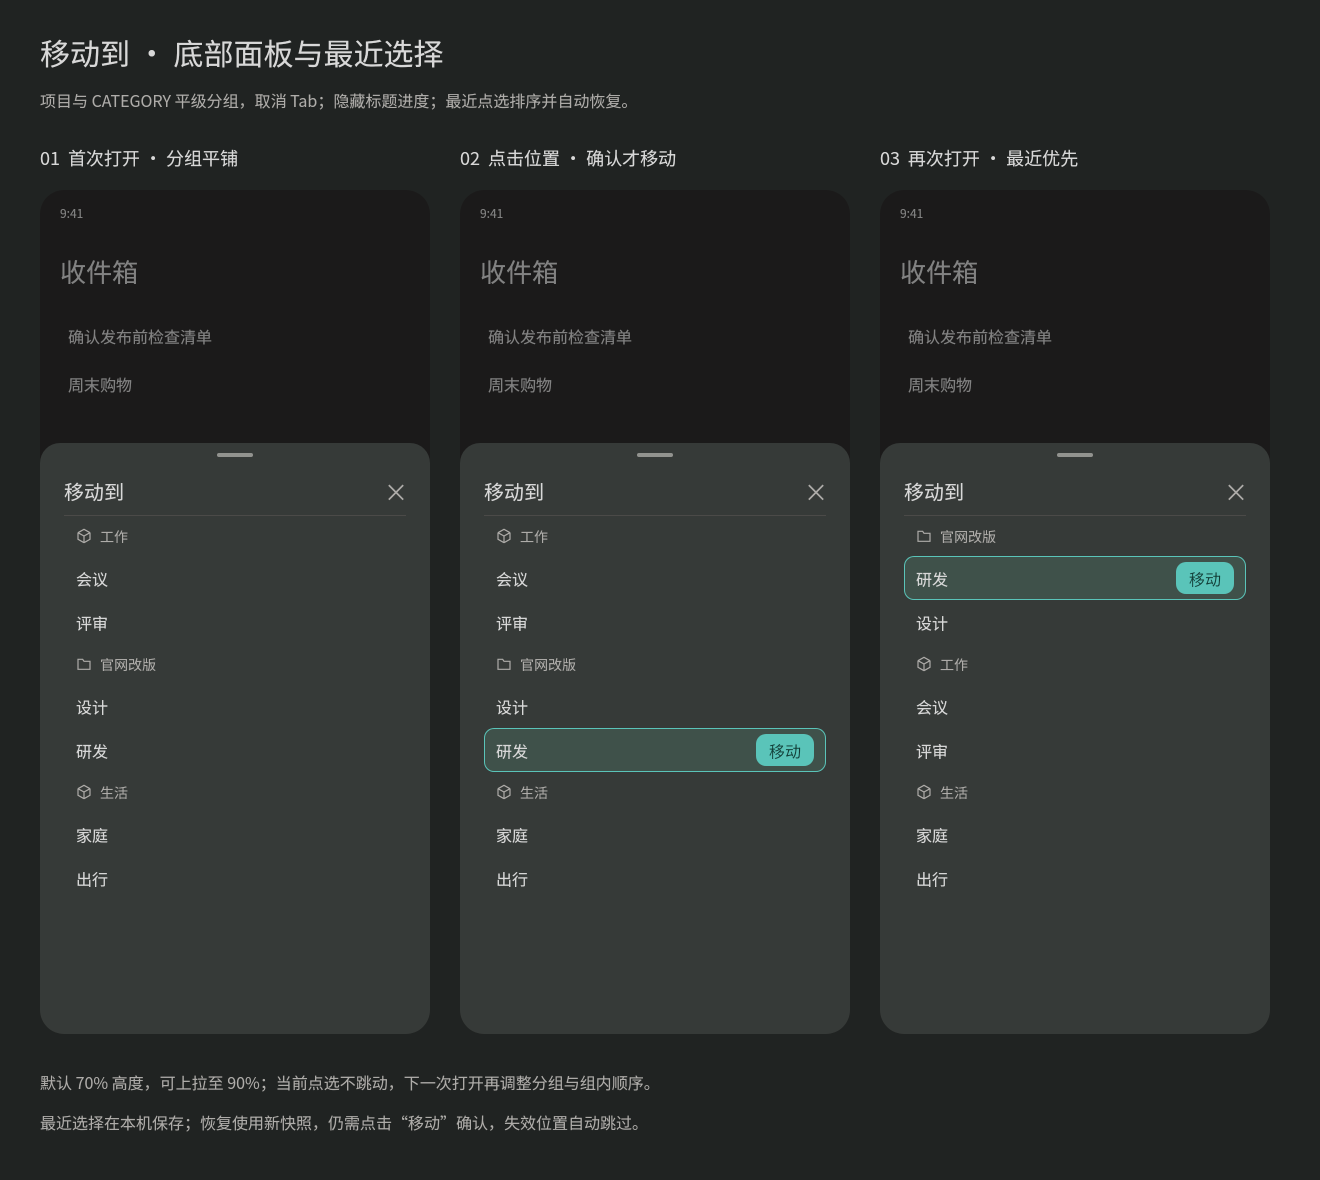
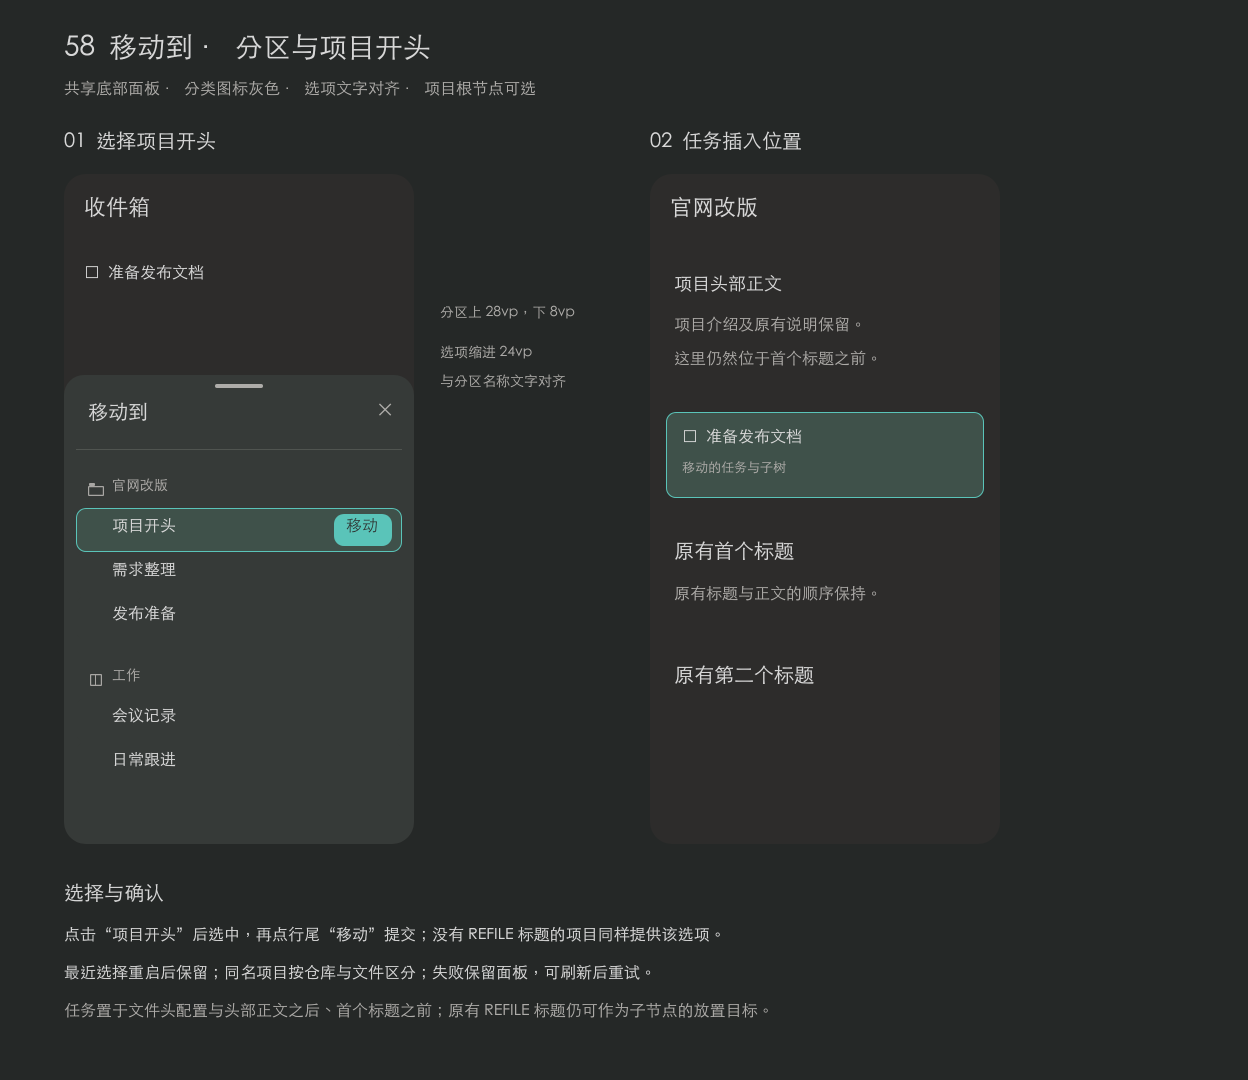
feat: 优化移动目标分区并支持移动到项目开头
统一分类与项目图标灰色，增大分区留白并对齐选项文字；由 Core 提供项目根节点目标，保留文件头正文与原有标题顺序。

同步设计画板与接口说明，修正规划日期测试的遗留字段与参数。

diff --git a/entry/src/main/cpp/types/liborg_tasks_harmony/index.d.ts b/entry/src/main/cpp/types/liborg_tasks_harmony/index.d.ts
@@ -56,7 +56,7 @@ export interface TaskFileVersion { repoId: string; file: string; version: string
 export interface TaskOperationGroup { operations: TaskOperation[]; queueRepoIds?: string[]; fileVersions?: TaskFileVersion[]; }
 export type DataChangeEvent = { type: 'repositoryChanged'; repoId: string };
 export type DataChangeMonitor = (event: DataChangeEvent) => void;
-export interface RefileTargetQuery { files?: OrgFileRef[]; excludedFiles?: OrgFileRef[]; }
+export interface RefileTargetQuery { files?: OrgFileRef[]; excludedFiles?: OrgFileRef[]; includeProjectRoots?: boolean; }
 export interface RefileTarget {
   repoId: string; path: string; fullPath: TaskPath; headingPath: string[]; position: SourcePosition;
   category: string | null; projectName: string | null; fileVersion: string; titleParts: TitlePart[];

diff --git a/core/tests/refile_targets.rs b/core/tests/refile_targets.rs
@@ -261,6 +261,7 @@ async fn target_query_scopes_files_before_categories_and_keeps_peer_repository_f
                 path: "someday.org".into(),
             },
         ],
+        ..Default::default()
     };
     let targets = w.query_refile_targets(&query).await.unwrap();
     assert_eq!(
@@ -292,4 +293,38 @@ async fn target_query_scopes_files_before_categories_and_keeps_peer_repository_f
         }).await
         .is_err()
     );
+}
+
+#[tokio::test]
+async fn project_roots_are_opt_in_scoped_and_keep_file_identity_without_refile_headings() {
+    use org_tasks_core::RefileTargetQuery;
+    let source = "#+FILETAGS: :project:\r\n#+TITLE: 项目\r\n头部正文  \r\n* 章节 :REFILE:\r\n";
+    let workspace = OrgWorkspace::new(vec![repo("r", &[
+        ("project.org", source),
+        ("empty.org", "#+FILETAGS: :project:\n正文\n"),
+        ("ordinary.org", "#+TITLE: 普通文件\n"),
+    ])]).unwrap();
+    assert_eq!(workspace.refile_targets().await.unwrap().len(), 1);
+    let query = RefileTargetQuery {
+        include_project_roots: true,
+        excluded_files: vec![OrgFileRef { repo_id: support::id("r"), path: "empty.org".into() }],
+        ..Default::default()
+    };
+    let targets = workspace.query_refile_targets(&query).await.unwrap();
+    assert_eq!(targets.len(), 2);
+    let root = &targets[0];
+    assert_eq!(root.full_path, org_tasks_core::TaskPath::file(support::id("r"), "project.org".into()));
+    assert!(root.heading_path.is_empty());
+    assert!(root.title_parts.is_empty());
+    assert_eq!(root.position.byte_offset, 0);
+    assert_eq!(root.project_name.as_deref(), Some("项目"));
+    assert_eq!(root.file_version, targets[1].file_version);
+    let all = workspace.query_refile_targets(&RefileTargetQuery {
+        include_project_roots: true, ..Default::default()
+    }).await.unwrap();
+    assert_eq!(all.len(), 3);
+    assert_eq!(all[0].path, "empty.org");
+    assert_eq!(all[0].project_name.as_deref(), Some(""));
+    assert!(all[0].full_path.titles.is_empty());
+    assert_eq!(serialize_file(&workspace.repos()[0].file("project.org").await.unwrap()), source.as_bytes());
 }

diff --git a/core/tests/task_operations.rs b/core/tests/task_operations.rs
@@ -1237,3 +1237,31 @@ async fn someday_group_rejects_target_todo_mismatch_without_publishing_modificat
             .is_empty()
     );
 }
+
+#[tokio::test]
+async fn move_to_project_root_preserves_preamble_and_precedes_the_first_heading() {
+    for tail in ["* 原有章节\r\n原有正文  \r\n", ""] {
+        let source = "* TODO 移动记录\r\n正文  \r\n** TODO 子任务\r\n";
+        let mut fixture = Fixture::new(source).await;
+        let preamble = "#+FILETAGS: :project:\r\n#+TITLE: 项目\r\n\r\n头部正文  \r\n\r\n";
+        fs::write(fixture.root.join("project.org"), format!("{preamble}{tail}")).await.unwrap();
+        let targets = fixture.workspace.query_refile_targets(&RefileTargetQuery {
+            include_project_roots: true, ..Default::default()
+        }).await.unwrap();
+        let target = &targets[0];
+        assert!(target.full_path.titles.is_empty());
+        let mut group = fixture.group("unused").await;
+        let TaskOperation::Modification(operation) = &group.operations[0] else { unreachable!() };
+        group.operations = vec![TaskOperation::Movement(TaskMovement {
+            path: operation.path.clone(),
+            position: TaskPosition { parent: target.full_path.clone(), after: None },
+        })];
+        group.file_versions = vec![TaskFileVersion {
+            repo_id: target.repo_id.clone(), file: target.path.clone(), version: target.file_version.clone()
+        }];
+        fixture.workspace.execute_task_operations(&group).await.unwrap();
+        assert_eq!(fs::read(fixture.root.join("project.org")).await.unwrap(), format!("{preamble}{source}{tail}").as_bytes());
+        assert_eq!(fs::read(fixture.root.join("tasks.org")).await.unwrap(), b"");
+        assert!(fixture.workspace.execute_task_operations(&group).await.is_err());
+    }
+}

diff --git a/core/src/model/refile.rs b/core/src/model/refile.rs
@@ -15,6 +15,8 @@ pub(crate) const CONFLICT_TAG: &str = "CONFLICT";
 pub struct RefileTargetQuery {
     pub files: Vec<OrgFileRef>,
     pub excluded_files: Vec<OrgFileRef>,
+    /// 同时枚举项目文件根节点；默认只返回显式 REFILE 标题。
+    pub include_project_roots: bool,
 }
 
 impl RefileTargetQuery {
@@ -31,7 +33,7 @@ impl RefileTargetQuery {
     }
 }
 
-/// 当前文件快照中显式标记为可放置任务的标题，不是持久化实体。
+/// 当前文件快照中的放置位置：显式 REFILE 标题或项目文件根节点。
 #[derive(Clone, Debug, PartialEq, Eq, Serialize)]
 #[serde(rename_all = "camelCase")]
 pub struct RefileTarget {
@@ -78,6 +80,19 @@ impl OrgRepo {
             let category = file.category();
             let project_name = file.project_name();
             let file_version = LocalFileVersion::from_bytes(file.source_bytes()).content_hash;
+            if query.include_project_roots && project_name.is_some() {
+                targets.push(RefileTarget {
+                    repo_id: self.id.clone(),
+                    full_path: file.full_path(),
+                    path: file.path.clone(),
+                    heading_path: Vec::new(),
+                    title_parts: Vec::new(),
+                    position: position_at(file.source_bytes(), 0),
+                    category: category.clone(),
+                    project_name: project_name.clone(),
+                    file_version: file_version.clone(),
+                });
+            }
             let mut ancestors: Vec<(usize, String)> = Vec::new();
             for (full_path, headline) in file.path_headlines() {
                 if super::OrgFile::is_conflict_headline(&headline) { continue; }

diff --git a/harmony/src/bridge.rs b/harmony/src/bridge.rs
@@ -1735,6 +1735,15 @@ mod tests {
         assert_eq!(targets.as_array().unwrap().len(), 1);
         assert_eq!(targets[0]["category"], "Work");
         assert_eq!(targets[0]["projectName"], "官网改版");
+        let mut project_query = query.clone();
+        project_query["includeProjectRoots"] = serde_json::json!(true);
+        let project_targets: serde_json::Value = serde_json::from_str(
+            &workspace_refile_targets_json(handle, project_query.to_string()).unwrap(),
+        ).unwrap();
+        assert_eq!(project_targets.as_array().unwrap().len(), 2);
+        assert_eq!(project_targets[0]["fullPath"]["titles"], serde_json::json!([]));
+        assert_eq!(project_targets[0]["fullPath"]["file"], "normal.org");
+        assert_eq!(project_targets[0]["fileVersion"], targets[0]["fileVersion"]);
         let query =
             serde_json::json!({ "files": [{"repoId":task["repoId"],"path":"someday.org"}] });
         let targets: serde_json::Value = serde_json::from_str(
